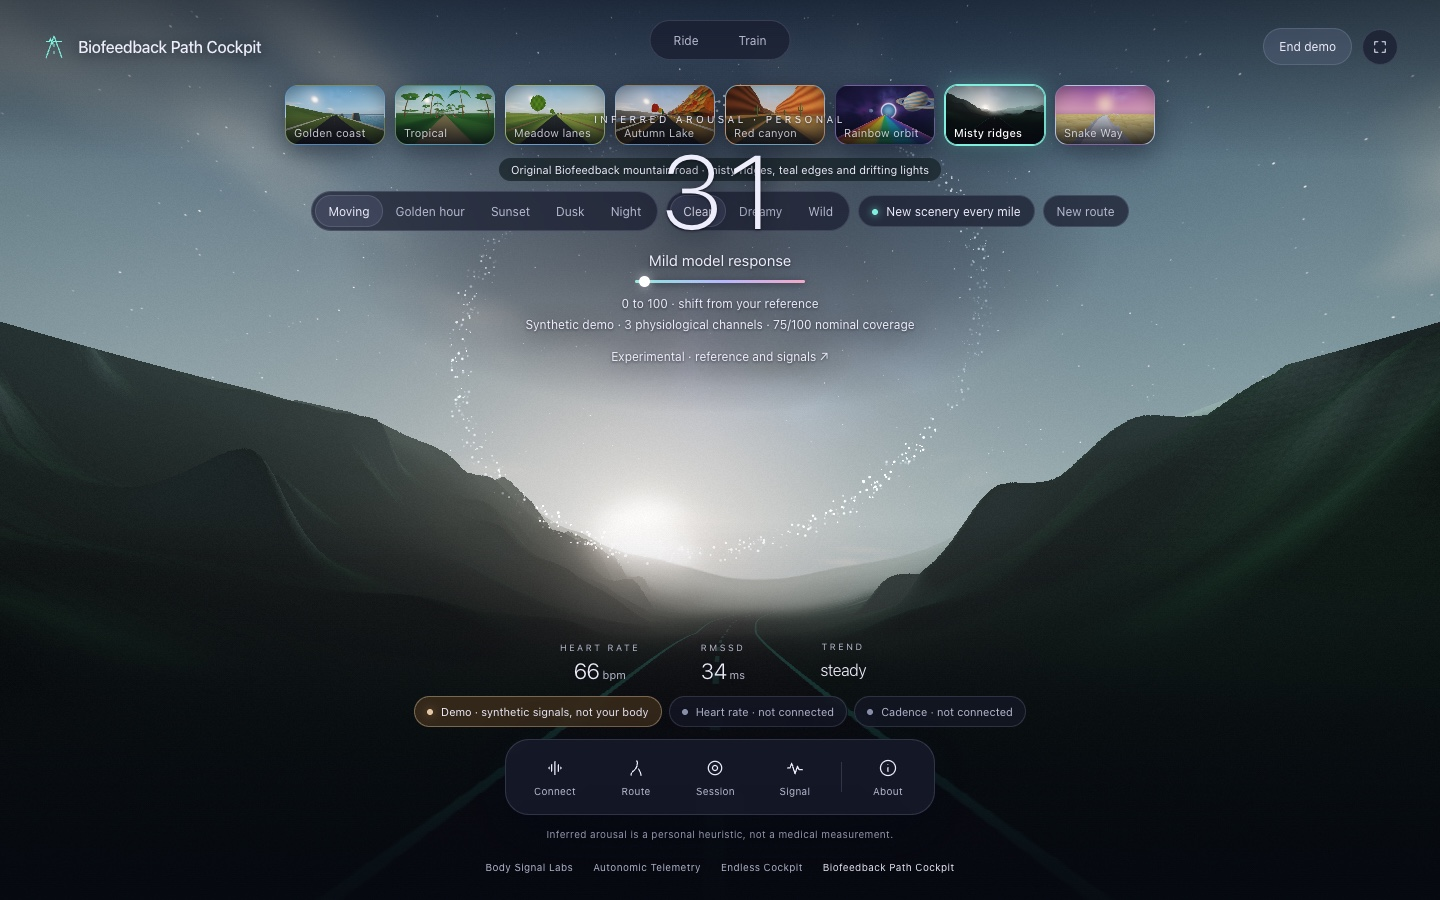
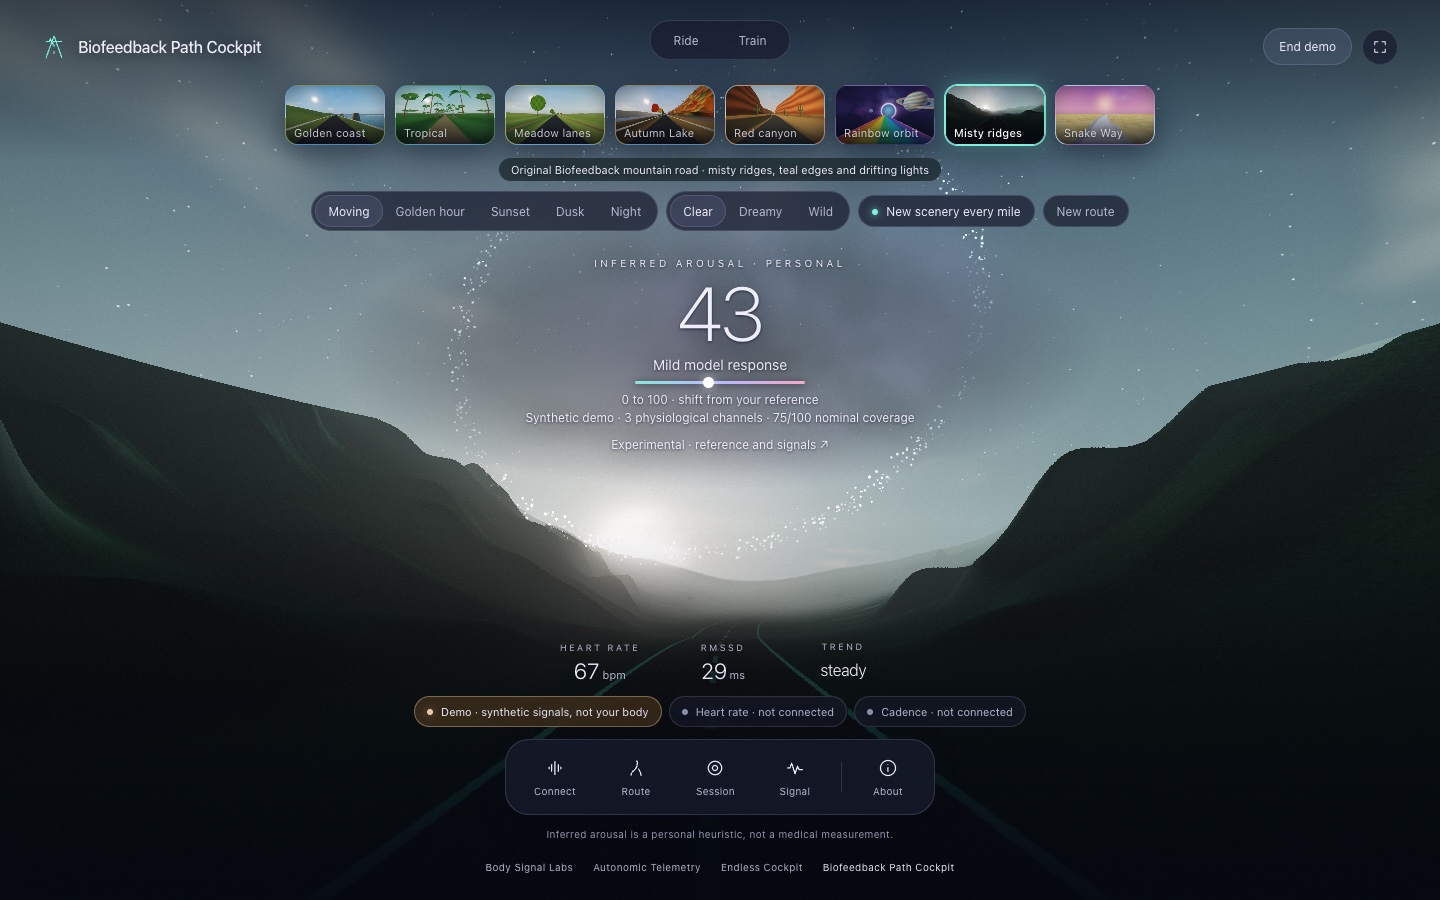
Fix Watch reading position below scenebar and Train breath cue bounds

diff --git a/biofeedback-path-cockpit.html b/biofeedback-path-cockpit.html
@@ -277,18 +277,18 @@ table.maptable th { color: var(--ink); font-weight: 500; white-space: nowrap; }
 #biome-row .pill[aria-pressed="true"] { border-color: var(--accent); background: var(--soft); }
 #scene-description { min-height: 2.8em; margin-bottom: 4px; }
 
-.reading { position: absolute; left: 16px; right: 16px; top: 12.5%; text-align: center; pointer-events: none; text-shadow: 0 1px 3px rgba(4, 6, 16, 0.6), 0 2px 26px rgba(4, 6, 16, 0.85); }
+.reading { position: absolute; left: 16px; right: 16px; top: 28.5%; text-align: center; pointer-events: none; text-shadow: 0 1px 3px rgba(4, 6, 16, 0.6), 0 2px 26px rgba(4, 6, 16, 0.85); }
 .reading::before { content: ""; position: absolute; left: 50%; top: 48%; width: min(760px, 118%); height: 136%; transform: translate(-50%, -50%); background: radial-gradient(ellipse at center, rgba(8, 10, 22, 0.42), rgba(8, 10, 22, 0.24) 46%, transparent 72%); z-index: -1; }
-.reading .eyebrow { margin-bottom: 12px; }
-.read-num { font-size: clamp(64px, 8vw, 104px); font-weight: 200; letter-spacing: -3px; line-height: 1.02; font-variant-numeric: tabular-nums; }
-.read-tier { font-size: 15px; margin: 8px 0 11px; }
-.read-scale { position: relative; width: 170px; height: 3px; margin: 0 auto 12px; border-radius: 3px; background: linear-gradient(90deg, #8be6dc, #b8b7ff 52%, #f4a9c6); box-shadow: 0 1px 8px rgba(4, 6, 16, 0.6); }
+.reading .eyebrow { margin-bottom: 6px; }
+.read-num { font-size: clamp(48px, 6.2vw, 76px); font-weight: 200; letter-spacing: -2.5px; line-height: 1; font-variant-numeric: tabular-nums; }
+.read-tier { font-size: 14px; margin: 5px 0 8px; }
+.read-scale { position: relative; width: 170px; height: 3px; margin: 0 auto 8px; border-radius: 3px; background: linear-gradient(90deg, #8be6dc, #b8b7ff 52%, #f4a9c6); box-shadow: 0 1px 8px rgba(4, 6, 16, 0.6); }
 .read-scale.forming { background: var(--line); }
 .read-scale i { position: absolute; top: 50%; width: 11px; height: 11px; margin: -5.5px 0 0 -5.5px; border-radius: 50%; background: #fff; box-shadow: 0 0 10px rgba(255, 255, 255, 0.7); transition: left 0.9s ease; }
 .read-scale u { position: absolute; left: 0; top: 0; height: 100%; border-radius: 3px; background: var(--ink); transition: width 0.5s linear; }
-.read-sub { font-size: 12px; margin: 3px auto; max-width: 420px; line-height: 1.5; }
+.read-sub { font-size: 12px; margin: 2px auto; max-width: 420px; line-height: 1.4; }
 .read-sub:empty { display: none; }
-.read-more { pointer-events: auto; margin-top: 6px; font-size: 12px; color: var(--ink); text-shadow: inherit; padding: 6px 10px; border-radius: 12px; }
+.read-more { pointer-events: auto; margin-top: 4px; font-size: 12px; color: var(--ink); text-shadow: inherit; padding: 4px 10px; border-radius: 12px; }
 .read-more:hover { background: var(--soft); }
 
 .breath { position: absolute; left: 0; top: 0; width: 0; height: 0; pointer-events: none; will-change: transform; }
@@ -318,7 +318,7 @@ body:not(.playing) .breath-note { color: var(--ink); }
 @media (max-width: 860px) {
   .hud-set { gap: 8px 16px; }
   .gauge .k { letter-spacing: 1.6px; }
-  .reading { top: 15%; }
+  .reading { top: 34%; }
   .read-sub { font-size: 11px; }
   .read-tier { font-size: 14px; }
   .family { gap: 0; }
@@ -346,9 +346,18 @@ body:not(.playing) .breath-note { color: var(--ink); }
   .truth { display: none; }
 }
 @media (max-height: 760px) {
-  .reading { top: 9%; }
-  .read-num { font-size: 60px; }
-  .read-more { display: none; }
+  .reading { top: 242px; }
+  .reading .eyebrow, #read-cov, .read-more { display: none; }
+  .read-num { font-size: 44px; }
+  .read-tier { font-size: 12px; margin: 2px 0 5px; }
+  .read-scale { margin: 0 auto 5px; }
+  .read-sub { font-size: 11px; line-height: 1.3; }
+}
+@media (max-width: 480px) and (max-height: 760px) {
+  .reading { top: 274px; }
+}
+@media (max-height: 560px) {
+  .reading { display: none; }
 }
 
 /* Optional Muse ride control uses the existing sheets and readout hierarchy. */
@@ -6005,23 +6014,18 @@ void main(){ vec2 q=gl_PointCoord-.5; float g=smoothstep(.5,.12,length(q)); o=ve
     set('t-hold', `${mmss(Math.min(SET_SECONDS, S.holdT))} of ${mmss(SET_SECONDS)}`);
     $('set-again').hidden = !S.complete;
     const br = bio.breath(), cue = $('breath-cue'), note = $('breath-note');
-    const isWatch = S.mode === 'ride' && S.stoppedTime >= 2.5;
-    $('breath').hidden = !isWatch && S.mode !== 'train';
-    if (S.mode === 'train' || isWatch) {
+    $('breath').hidden = S.mode !== 'train';
+    if (S.mode === 'train') {
       const c = br.paused ? 'Paused' : br.inhale ? 'Breathe in' : 'Breathe out';
       if (cue.textContent !== c) cue.textContent = c;
-      if (S.mode === 'train') {
-        const hasSource = bio.demoOn || bio.replayOn || bio.hr.connected;
-        let msg = '';
-        if (S.complete) msg = 'Set complete. Dawn broke, and the path is clear.';
-        else if (!hasSource) msg = 'The pacer runs without a sensor. Clarity needs one.';
-        else if (n.hr == null) msg = 'Signal unclear. This stretch counts neither way.';
-        else if (n.swing == null) msg = 'Reading the first two breaths.';
-        else if (cl >= CLARITY_TARGET) msg = 'Holding. Stay with it.';
-        if (note.textContent !== msg) note.textContent = msg;
-      } else {
-        if (note.textContent !== 'Cardiac recovery · follow the ring') note.textContent = 'Cardiac recovery · follow the ring';
-      }
+      const hasSource = bio.demoOn || bio.replayOn || bio.hr.connected;
+      let msg = '';
+      if (S.complete) msg = 'Set complete. Dawn broke, and the path is clear.';
+      else if (!hasSource) msg = 'The pacer runs without a sensor. Clarity needs one.';
+      else if (n.hr == null) msg = 'Signal unclear. This stretch counts neither way.';
+      else if (n.swing == null) msg = 'Reading the first two breaths.';
+      else if (cl >= CLARITY_TARGET) msg = 'Holding. Stay with it.';
+      if (note.textContent !== msg) note.textContent = msg;
     }
   }
 
@@ -6355,7 +6359,7 @@ void main(){ vec3 c=aces(texture(uScene,vUv).rgb*uExposure); vec2 q=vUv-.5; c*=1
       { const d = sd[0] * fwd[0] + sd[1] * fwd[1] + sd[2] * fwd[2]; if (d > 0.05) sunNdc = [((sd[0] * right[0] + sd[1] * right[1] + sd[2] * right[2]) * focal) / d / asp, ((sd[0] * up[0] + sd[1] * up[1] + sd[2] * up[2]) * focal) / d]; }
       const cT = train ? [sunNdc[0], sunNdc[1]] : [0, asp < 1 ? 0.3 : 0.27];
       S.orbitC = S.orbitC.map((v, i) => lerp(v, cT[i], Math.min(1, dtMs / 500)));
-      const aT = ride ? 0 : train ? 0.95 : (bio.demoOn || bio.replayOn || bio.hr.connected ? 0.85 : 0.42);
+      const aT = (ride && !isWatch) ? 0 : train ? 0.95 : (bio.demoOn || bio.replayOn || bio.hr.connected ? 0.85 : 0.42);
       S.orbitA += (aT - S.orbitA) * Math.min(1, dtMs / 500);
       if (S.orbitA > 0.01) {
         const R = train ? lerp(0.2, 0.37, br.ee) * scale : 0.6 * scale;
@@ -6366,7 +6370,16 @@ void main(){ vec3 c=aces(texture(uScene,vUv).rgb*uExposure); vec2 q=vUv-.5; c*=1
         gl.disable(gl.BLEND);
       }
       // The cue sits inside the breathing ring, wherever the sun has drifted to.
-      if (train) { const bx = (S.orbitC[0] * 0.5 + 0.5) * cv.clientWidth, by = (0.5 - S.orbitC[1] * 0.5) * cv.clientHeight; $('breath').style.transform = `translate(${bx.toFixed(1)}px, ${by.toFixed(1)}px)`; $('breath').classList.toggle('on-light', S.dawn > 0.42); }
+      if (train) {
+        const bx = (S.orbitC[0] * 0.5 + 0.5) * cv.clientWidth;
+        const sb = $('scenebar'), dw = document.querySelector('.dock-wrap');
+        const minY = (sb ? sb.getBoundingClientRect().bottom : 80) + 32;
+        const maxY = (dw ? dw.getBoundingClientRect().top : cv.clientHeight - 160) - 48;
+        const rawY = (0.5 - S.orbitC[1] * 0.5) * cv.clientHeight;
+        const by = maxY > minY ? clamp(rawY, minY, maxY) : rawY;
+        $('breath').style.transform = `translate(${bx.toFixed(1)}px, ${by.toFixed(1)}px)`;
+        $('breath').classList.toggle('on-light', S.dawn > 0.42);
+      }
 
       if (lumaRec) lumaRec(now);
       if (wantSnap) { const done = wantSnap; wantSnap = null; cv.toBlob((blob) => done(blob), 'image/png'); }

diff --git a/src/biofeedback.js b/src/biofeedback.js
@@ -1141,23 +1141,18 @@
     set('t-hold', `${mmss(Math.min(SET_SECONDS, S.holdT))} of ${mmss(SET_SECONDS)}`);
     $('set-again').hidden = !S.complete;
     const br = bio.breath(), cue = $('breath-cue'), note = $('breath-note');
-    const isWatch = S.mode === 'ride' && S.stoppedTime >= 2.5;
-    $('breath').hidden = !isWatch && S.mode !== 'train';
-    if (S.mode === 'train' || isWatch) {
+    $('breath').hidden = S.mode !== 'train';
+    if (S.mode === 'train') {
       const c = br.paused ? 'Paused' : br.inhale ? 'Breathe in' : 'Breathe out';
       if (cue.textContent !== c) cue.textContent = c;
-      if (S.mode === 'train') {
-        const hasSource = bio.demoOn || bio.replayOn || bio.hr.connected;
-        let msg = '';
-        if (S.complete) msg = 'Set complete. Dawn broke, and the path is clear.';
-        else if (!hasSource) msg = 'The pacer runs without a sensor. Clarity needs one.';
-        else if (n.hr == null) msg = 'Signal unclear. This stretch counts neither way.';
-        else if (n.swing == null) msg = 'Reading the first two breaths.';
-        else if (cl >= CLARITY_TARGET) msg = 'Holding. Stay with it.';
-        if (note.textContent !== msg) note.textContent = msg;
-      } else {
-        if (note.textContent !== 'Cardiac recovery · follow the ring') note.textContent = 'Cardiac recovery · follow the ring';
-      }
+      const hasSource = bio.demoOn || bio.replayOn || bio.hr.connected;
+      let msg = '';
+      if (S.complete) msg = 'Set complete. Dawn broke, and the path is clear.';
+      else if (!hasSource) msg = 'The pacer runs without a sensor. Clarity needs one.';
+      else if (n.hr == null) msg = 'Signal unclear. This stretch counts neither way.';
+      else if (n.swing == null) msg = 'Reading the first two breaths.';
+      else if (cl >= CLARITY_TARGET) msg = 'Holding. Stay with it.';
+      if (note.textContent !== msg) note.textContent = msg;
     }
   }
 
@@ -1491,7 +1486,7 @@ void main(){ vec3 c=aces(texture(uScene,vUv).rgb*uExposure); vec2 q=vUv-.5; c*=1
       { const d = sd[0] * fwd[0] + sd[1] * fwd[1] + sd[2] * fwd[2]; if (d > 0.05) sunNdc = [((sd[0] * right[0] + sd[1] * right[1] + sd[2] * right[2]) * focal) / d / asp, ((sd[0] * up[0] + sd[1] * up[1] + sd[2] * up[2]) * focal) / d]; }
       const cT = train ? [sunNdc[0], sunNdc[1]] : [0, asp < 1 ? 0.3 : 0.27];
       S.orbitC = S.orbitC.map((v, i) => lerp(v, cT[i], Math.min(1, dtMs / 500)));
-      const aT = ride ? 0 : train ? 0.95 : (bio.demoOn || bio.replayOn || bio.hr.connected ? 0.85 : 0.42);
+      const aT = (ride && !isWatch) ? 0 : train ? 0.95 : (bio.demoOn || bio.replayOn || bio.hr.connected ? 0.85 : 0.42);
       S.orbitA += (aT - S.orbitA) * Math.min(1, dtMs / 500);
       if (S.orbitA > 0.01) {
         const R = train ? lerp(0.2, 0.37, br.ee) * scale : 0.6 * scale;
@@ -1502,7 +1497,16 @@ void main(){ vec3 c=aces(texture(uScene,vUv).rgb*uExposure); vec2 q=vUv-.5; c*=1
         gl.disable(gl.BLEND);
       }
       // The cue sits inside the breathing ring, wherever the sun has drifted to.
-      if (train) { const bx = (S.orbitC[0] * 0.5 + 0.5) * cv.clientWidth, by = (0.5 - S.orbitC[1] * 0.5) * cv.clientHeight; $('breath').style.transform = `translate(${bx.toFixed(1)}px, ${by.toFixed(1)}px)`; $('breath').classList.toggle('on-light', S.dawn > 0.42); }
+      if (train) {
+        const bx = (S.orbitC[0] * 0.5 + 0.5) * cv.clientWidth;
+        const sb = $('scenebar'), dw = document.querySelector('.dock-wrap');
+        const minY = (sb ? sb.getBoundingClientRect().bottom : 80) + 32;
+        const maxY = (dw ? dw.getBoundingClientRect().top : cv.clientHeight - 160) - 48;
+        const rawY = (0.5 - S.orbitC[1] * 0.5) * cv.clientHeight;
+        const by = maxY > minY ? clamp(rawY, minY, maxY) : rawY;
+        $('breath').style.transform = `translate(${bx.toFixed(1)}px, ${by.toFixed(1)}px)`;
+        $('breath').classList.toggle('on-light', S.dawn > 0.42);
+      }
 
       if (lumaRec) lumaRec(now);
       if (wantSnap) { const done = wantSnap; wantSnap = null; cv.toBlob((blob) => done(blob), 'image/png'); }

diff --git a/src/biofeedback.css b/src/biofeedback.css
@@ -22,18 +22,18 @@
 #biome-row .pill[aria-pressed="true"] { border-color: var(--accent); background: var(--soft); }
 #scene-description { min-height: 2.8em; margin-bottom: 4px; }
 
-.reading { position: absolute; left: 16px; right: 16px; top: 12.5%; text-align: center; pointer-events: none; text-shadow: 0 1px 3px rgba(4, 6, 16, 0.6), 0 2px 26px rgba(4, 6, 16, 0.85); }
+.reading { position: absolute; left: 16px; right: 16px; top: 28.5%; text-align: center; pointer-events: none; text-shadow: 0 1px 3px rgba(4, 6, 16, 0.6), 0 2px 26px rgba(4, 6, 16, 0.85); }
 .reading::before { content: ""; position: absolute; left: 50%; top: 48%; width: min(760px, 118%); height: 136%; transform: translate(-50%, -50%); background: radial-gradient(ellipse at center, rgba(8, 10, 22, 0.42), rgba(8, 10, 22, 0.24) 46%, transparent 72%); z-index: -1; }
-.reading .eyebrow { margin-bottom: 12px; }
-.read-num { font-size: clamp(64px, 8vw, 104px); font-weight: 200; letter-spacing: -3px; line-height: 1.02; font-variant-numeric: tabular-nums; }
-.read-tier { font-size: 15px; margin: 8px 0 11px; }
-.read-scale { position: relative; width: 170px; height: 3px; margin: 0 auto 12px; border-radius: 3px; background: linear-gradient(90deg, #8be6dc, #b8b7ff 52%, #f4a9c6); box-shadow: 0 1px 8px rgba(4, 6, 16, 0.6); }
+.reading .eyebrow { margin-bottom: 6px; }
+.read-num { font-size: clamp(48px, 6.2vw, 76px); font-weight: 200; letter-spacing: -2.5px; line-height: 1; font-variant-numeric: tabular-nums; }
+.read-tier { font-size: 14px; margin: 5px 0 8px; }
+.read-scale { position: relative; width: 170px; height: 3px; margin: 0 auto 8px; border-radius: 3px; background: linear-gradient(90deg, #8be6dc, #b8b7ff 52%, #f4a9c6); box-shadow: 0 1px 8px rgba(4, 6, 16, 0.6); }
 .read-scale.forming { background: var(--line); }
 .read-scale i { position: absolute; top: 50%; width: 11px; height: 11px; margin: -5.5px 0 0 -5.5px; border-radius: 50%; background: #fff; box-shadow: 0 0 10px rgba(255, 255, 255, 0.7); transition: left 0.9s ease; }
 .read-scale u { position: absolute; left: 0; top: 0; height: 100%; border-radius: 3px; background: var(--ink); transition: width 0.5s linear; }
-.read-sub { font-size: 12px; margin: 3px auto; max-width: 420px; line-height: 1.5; }
+.read-sub { font-size: 12px; margin: 2px auto; max-width: 420px; line-height: 1.4; }
 .read-sub:empty { display: none; }
-.read-more { pointer-events: auto; margin-top: 6px; font-size: 12px; color: var(--ink); text-shadow: inherit; padding: 6px 10px; border-radius: 12px; }
+.read-more { pointer-events: auto; margin-top: 4px; font-size: 12px; color: var(--ink); text-shadow: inherit; padding: 4px 10px; border-radius: 12px; }
 .read-more:hover { background: var(--soft); }
 
 .breath { position: absolute; left: 0; top: 0; width: 0; height: 0; pointer-events: none; will-change: transform; }
@@ -63,7 +63,7 @@ body:not(.playing) .breath-note { color: var(--ink); }
 @media (max-width: 860px) {
   .hud-set { gap: 8px 16px; }
   .gauge .k { letter-spacing: 1.6px; }
-  .reading { top: 15%; }
+  .reading { top: 34%; }
   .read-sub { font-size: 11px; }
   .read-tier { font-size: 14px; }
   .family { gap: 0; }
@@ -91,9 +91,18 @@ body:not(.playing) .breath-note { color: var(--ink); }
   .truth { display: none; }
 }
 @media (max-height: 760px) {
-  .reading { top: 9%; }
-  .read-num { font-size: 60px; }
-  .read-more { display: none; }
+  .reading { top: 242px; }
+  .reading .eyebrow, #read-cov, .read-more { display: none; }
+  .read-num { font-size: 44px; }
+  .read-tier { font-size: 12px; margin: 2px 0 5px; }
+  .read-scale { margin: 0 auto 5px; }
+  .read-sub { font-size: 11px; line-height: 1.3; }
+}
+@media (max-width: 480px) and (max-height: 760px) {
+  .reading { top: 274px; }
+}
+@media (max-height: 560px) {
+  .reading { display: none; }
 }
 
 /* Optional Muse ride control uses the existing sheets and readout hierarchy. */

diff --git a/tests/layout_check.py b/tests/layout_check.py
@@ -24,7 +24,7 @@ JS = r"""() => {
     const off = r.bottom > innerHeight + 1 || r.top < -1 || r.right > innerWidth + 1 || r.left < -1;
     if (off) out.push((e.innerText || e.id || '').trim().slice(0, 24) + ' is cut off');
   }
-  const sb = box('.scenebar'), ms = box('.mode-switch'), hd = box('.header'), dw = box('.dock-wrap'), hud = box('#hud'), intro = box('.intro');
+  const sb = box('.scenebar'), ms = box('.mode-switch'), hd = box('.header'), dw = box('.dock-wrap'), hud = box('#hud'), intro = box('.intro'), reading = box('.reading');
   const overlap = (a, b) => a && b && a.b > b.t && b.b > a.t && a.r > b.l && b.r > a.l;
   const top = sb || ms;
   if (top && dw && top.b > dw.t) out.push(`top controls (bottom ${top.b}) run into the bottom stack (top ${dw.t})`);
@@ -32,6 +32,8 @@ JS = r"""() => {
   const introOn = intro && getComputedStyle(document.querySelector('.intro')).opacity > 0.1;
   if (introOn && sb && overlap(intro, sb)) out.push('intro text overlaps the scene bar');
   if (introOn && dw && intro.b > dw.t) out.push(`intro text (bottom ${intro.b}) runs into the bottom stack (top ${dw.t})`);
+  if (reading && sb && overlap(reading, sb)) out.push(`reading (top ${reading.t}) overlaps the scene bar (bottom ${sb.b})`);
+  if (reading && dw && reading.b > dw.t) out.push(`reading (bottom ${reading.b}) runs into the bottom stack (top ${dw.t})`);
   return { problems: out, scrollW: document.documentElement.scrollWidth, w: innerWidth, top: top && top.b, stackTop: dw && dw.t };
 }"""
 bad = 0
@@ -49,6 +51,12 @@ with sync_playwright() as p:
                 pg.evaluate('(scene) => __app.setBiome(scene, true)', int(os.environ['LAYOUT_SCENE']))
             pg.wait_for_timeout(2600)
             r = pg.evaluate(JS)
+            if page == 'biofeedback-path-cockpit.html':
+                pg.click('#demo-button')
+                pg.wait_for_timeout(500)
+                r_demo = pg.evaluate(JS)
+                for prob in r_demo['problems']:
+                    r['problems'].append('demo: ' + prob)
             if r['scrollW'] > r['w']: r['problems'].append(f"page scrolls sideways ({r['scrollW']} > {r['w']})")
             if errs: r['problems'].append('page error: ' + errs[0])
             pg.screenshot(path=f'{OUT}/new-{page[:-5]}-{name}.png')
